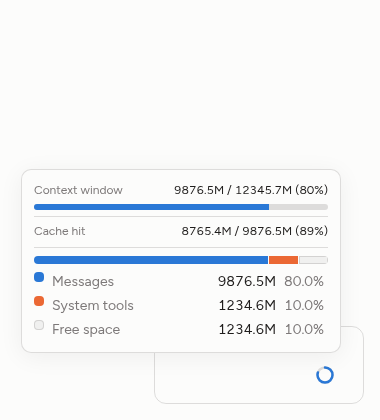
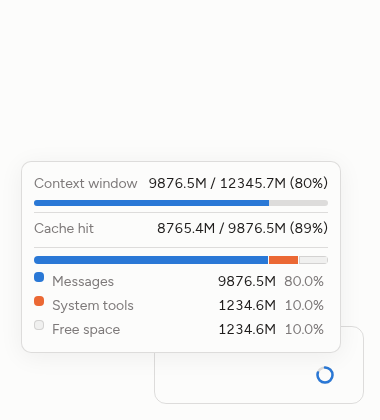
[frontend] Restore usage typography and make skipped steps visible

Changed region(s): [[0.0868, 0.4024, 0.8684, 0.5571]]

diff --git a/office-agent/frontend/src/components/ContextRing.tsx b/office-agent/frontend/src/components/ContextRing.tsx
@@ -93,9 +93,9 @@ export function ContextRing({ threadId, totalTokens, contextWindow, cacheStats }
       </button>
       {open && createPortal(
         <div ref={panelRef} data-native-overlay role="dialog" aria-label="Context usage" style={position} className="fixed z-[1000] max-h-[calc(100dvh-16px)] w-80 max-w-[calc(100vw-16px)] overflow-y-auto rounded-[10px] border border-[var(--border)] bg-[var(--panel-bg)] p-3 text-sm shadow-[var(--shadow)]">
-          <div className="mb-1.5 flex flex-wrap items-baseline justify-between gap-x-3 gap-y-0.5">
-            <span className="shrink-0 text-xs text-[var(--muted)]">Context window</span>
-            <span className="ml-auto max-w-full text-right text-xs tabular-nums [overflow-wrap:anywhere]">
+          <div className="mb-1.5 flex flex-wrap items-baseline justify-between gap-x-2 gap-y-0.5">
+            <span className="shrink-0 text-[var(--muted)]">Context window</span>
+            <span className="ml-auto max-w-full text-right tabular-nums [overflow-wrap:anywhere]">
               {formatTokenCount(totalTokens)} / <span className="inline-block whitespace-nowrap">{formatTokenCount(contextWindow)} ({percent.toFixed(0)}%)</span>
             </span>
           </div>
@@ -103,9 +103,9 @@ export function ContextRing({ threadId, totalTokens, contextWindow, cacheStats }
             <div className="h-full bg-[var(--accent)]" style={{ width: `${percent}%` }} />
           </div>
           {cacheStats && (
-            <div className="mt-1.5 flex flex-wrap items-baseline justify-between gap-x-3 gap-y-0.5 border-t border-[var(--border)] pt-1.5">
-              <span className="shrink-0 text-xs text-[var(--muted)]" title="Last call">Cache hit</span>
-              <span className="ml-auto max-w-full text-right text-xs tabular-nums [overflow-wrap:anywhere]">
+            <div className="mt-1.5 flex flex-wrap items-baseline justify-between gap-x-2 gap-y-0.5 border-t border-[var(--border)] pt-1.5">
+              <span className="shrink-0 text-[var(--muted)]" title="Last call">Cache hit</span>
+              <span className="ml-auto max-w-full text-right tabular-nums [overflow-wrap:anywhere]">
                 {formatTokenCount(cacheStats.cacheReadTokens)} / <span className="inline-block whitespace-nowrap">{formatTokenCount(cacheStats.inputTokens)} ({(cacheStats.hitRate * 100).toFixed(0)}%)</span>
               </span>
             </div>

diff --git a/office-agent/frontend/src/components/workflow/WorkflowDraftCard.tsx b/office-agent/frontend/src/components/workflow/WorkflowDraftCard.tsx
@@ -146,7 +146,11 @@ function Evidence({ result }: { result: WorkflowTestResult }) {
 
 function stepMark(status: string | undefined) {
   if (status === "running") return <span aria-label="Running" className="h-3.5 w-3.5 animate-spin rounded-full border-2 border-blue-200 border-t-blue-500 motion-reduce:animate-none" />;
-  if (status === "not_taken" || status === "skipped") return <span aria-label={status === "not_taken" ? "Not selected" : "Skipped"} className="text-[var(--muted)]">−</span>;
+  if (status === "not_taken" || status === "skipped") return (
+    <svg aria-label={status === "not_taken" ? "Not selected" : "Skipped"} viewBox="0 0 24 24" fill="none" stroke="currentColor" strokeWidth="1.7" strokeLinecap="round" className="h-3.5 w-3.5 shrink-0 text-[var(--muted)]">
+      <circle cx="12" cy="12" r="9" /><path d="M8 12h8" />
+    </svg>
+  );
   if (status === "done") return <CheckCircleIcon className="h-3.5 w-3.5 shrink-0 text-[var(--success)]" />;
   if (status === "failed") return <XCircleIcon className="h-3.5 w-3.5 shrink-0 text-[var(--danger)]" />;
   if (status === "waiting") return <AlertCircleIcon className="h-3.5 w-3.5 shrink-0 text-[var(--warning)]" />;
